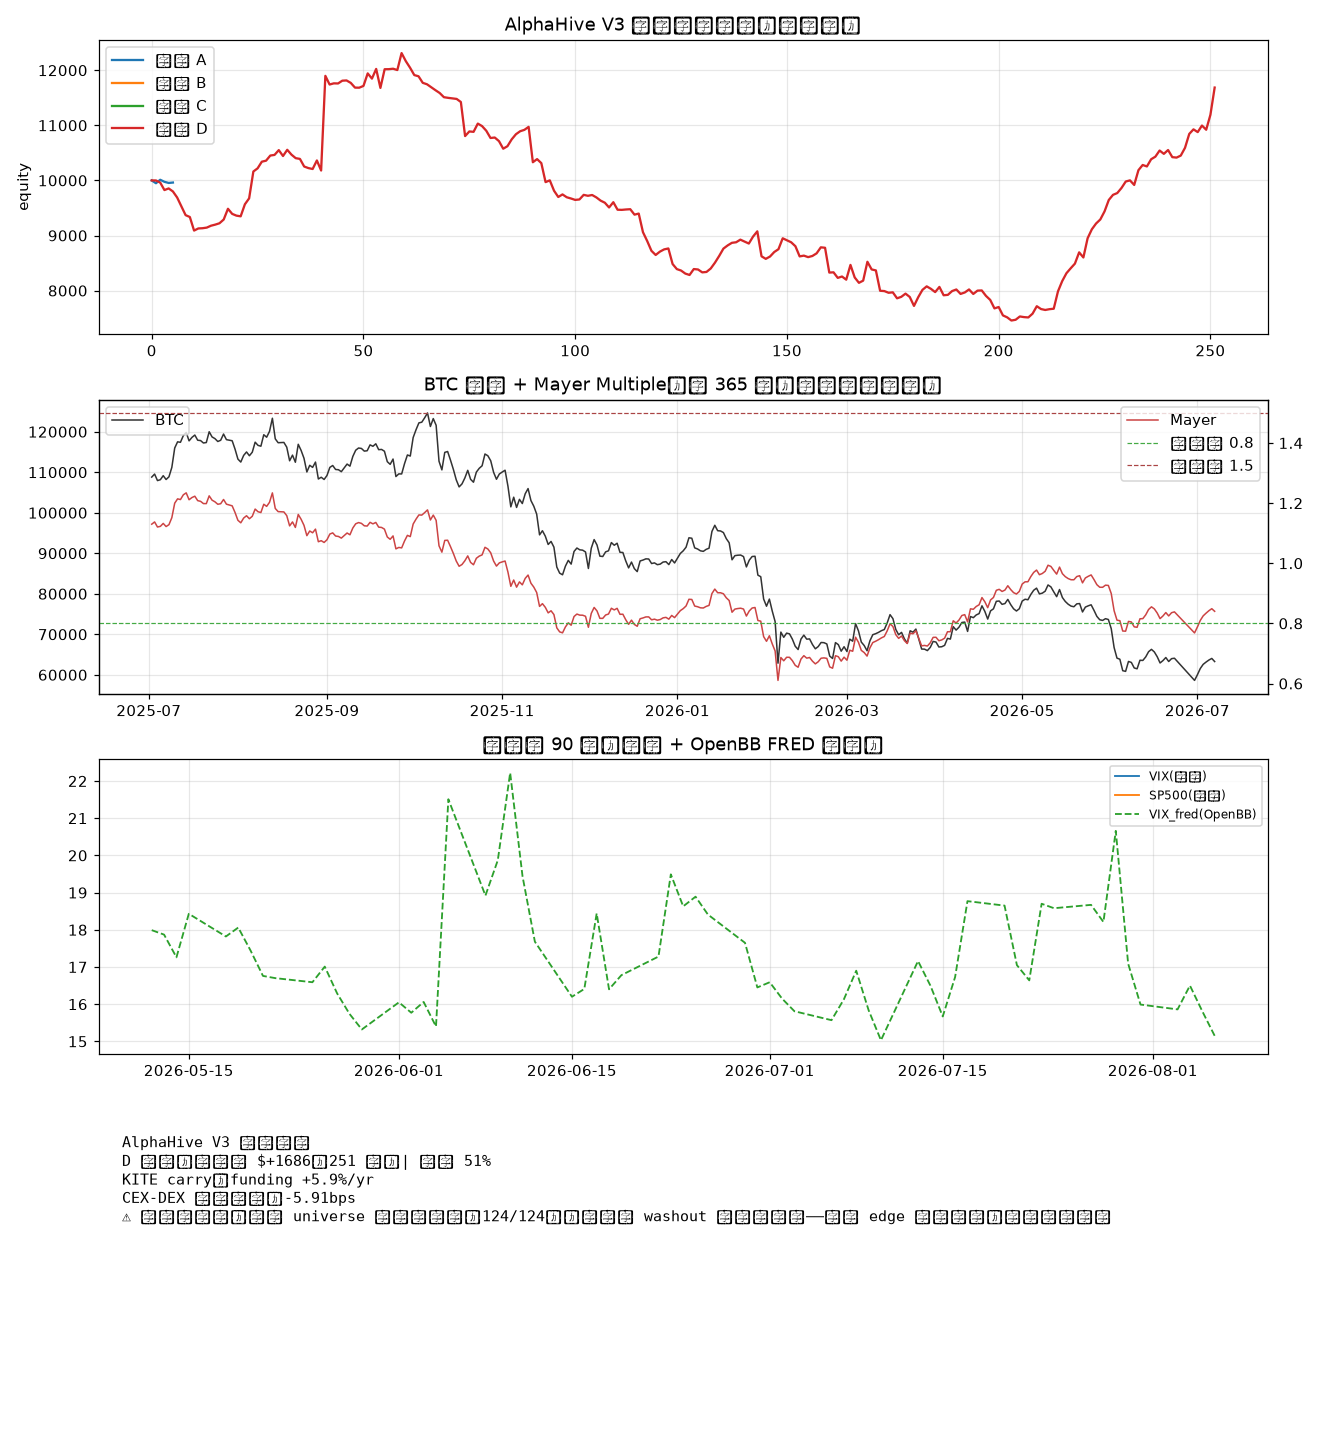
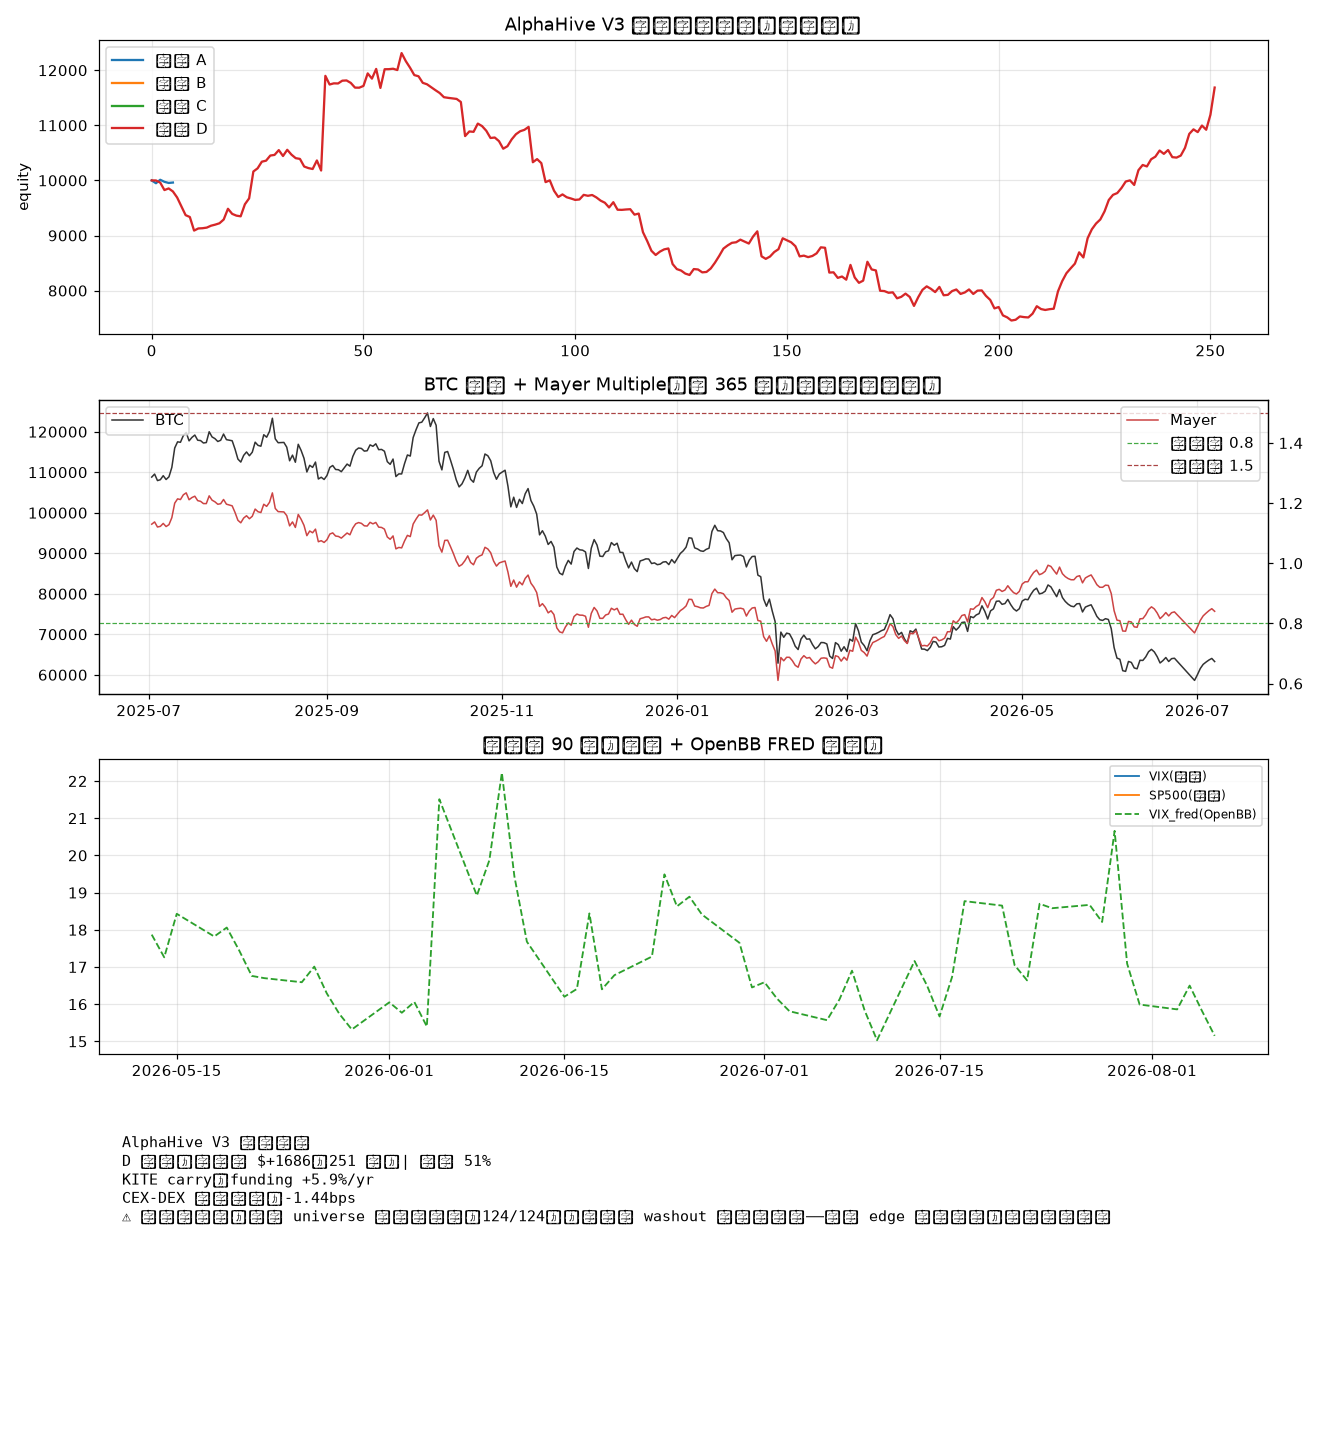
fix 109 merge KeyError timestamp_ms_y（rename 同名列 merge）+ 飞书错误卡片简洁化（原因+位置，裸 traceback 折叠）；509 tests 全绿

diff --git a/scripts/alphahive_feishu_notify.py b/scripts/alphahive_feishu_notify.py
@@ -11,6 +11,7 @@ import csv
 import hashlib
 import json
 import os
+import re
 import sys
 import tempfile
 from datetime import datetime, timezone
@@ -160,9 +161,27 @@ def _paper_payload() -> tuple[str, dict | None]:
 
 
 def _error_payload(kind: str, exit_code: int, stderr: str) -> tuple[str, dict]:
-    summary = [f"任务 **{kind}** 退出码 **{exit_code}**",
-               f"{datetime.now(timezone.utc):%m-%d %H:%M UTC}"]
-    details = [stderr[-1500:]] if stderr.strip() else ["无 stderr"]
+    """简洁清晰版错误卡片：一句话原因 + 位置，不再裸贴 traceback。"""
+    lines = [ln.rstrip() for ln in stderr.splitlines() if ln.strip()]
+    err_pat = re.compile(
+        r"^(KeyError|ValueError|TypeError|IndexError|FileNotFoundError|AttributeError|"
+        r"RuntimeError|OSError|Exception|AssertionError|NameError|ModuleNotFoundError|"
+        r"ImportError|MemoryError|OverflowError|RecursionError|pandas\.errors\.\w+)\b")
+    err_line = next((ln for ln in reversed(lines) if err_pat.match(ln)), "")
+    cause = err_line.split(":", 1)[1].strip() if ":" in err_line else err_line
+    file_lines = [ln.strip() for ln in reversed(lines) if ln.strip().startswith("File ")]
+    loc = next((ln for ln in file_lines if "AlphaHive_V3" in ln or "scripts\\" in ln), file_lines[0] if file_lines else "")
+    summary = [
+        f"任务 **{kind}** 执行失败 · 退出码 **{exit_code}**",
+        f"{datetime.now(timezone.utc):%m-%d %H:%M UTC}",
+    ]
+    details: list[str] = []
+    if cause:
+        details.append(f"**原因**：`{cause[:200]}`")
+    if loc:
+        details.append(f"**位置**：`{loc[:180]}`")
+    if not details:
+        details = [f"```\n{stderr[-500:]}\n```"] if stderr.strip() else ["无 stderr"]
     key = f"error:{kind}:{exit_code}:{hashlib.sha256(stderr.encode()).hexdigest()[:12]}"
     return key, _build_card("error", summary, details, "")
 

diff --git a/scripts/109_forward_replay.py b/scripts/109_forward_replay.py
@@ -333,9 +333,8 @@ def main() -> None:
     # 连续打分标注（2026-08-09）：把候选的 score_vol 附到事件行（无列则 NA）
     if "score_vol" in cand.columns:
         cand_fwd = cand_fwd.merge(
-            cand[["symbol", "timestamp_ms", "score_vol"]],
-            left_on=["symbol", "timestamp"], right_on=["symbol", "timestamp_ms"],
-            how="left").drop(columns=["timestamp_ms_y"])
+            cand[["symbol", "timestamp_ms", "score_vol"]].rename(columns={"timestamp_ms": "timestamp"}),
+            on=["symbol", "timestamp"], how="left")
         cand_fwd["score_vol"] = pd.to_numeric(cand_fwd["score_vol"], errors="coerce")
     else:
         cand_fwd["score_vol"] = np.nan

diff --git a/reports/forward_replay_report.md b/reports/forward_replay_report.md
@@ -1,8 +1,8 @@
 # AlphaHive V3 前向影子收益复核
 
-- 生成: 2026-08-09 08:09 UTC
-- 候选源: contract_monitor_candidates.csv（n=2），trigger=['cvd_bear_divergence']）
-- 基线: 候选时点 1 个，每时点随机 300 个 universe symbol 横截面
+- 生成: 2026-08-10 01:10 UTC
+- 候选源: forward_replay_returns.csv（全量 9 行），trigger=['cvd_bear_divergence', 'wash_cvd']）
+- 基线: 候选时点 6 个，每时点随机 300 个 universe symbol 横截面
 - 样本不足时 verdict=PENDING（CI 宽，待积累）
 
 
@@ -10,18 +10,34 @@
 
 | 组 | n | 均值% | 中位数% | 胜率% |
 |---|---|---|---|---|
-| candidate | 2 | 2.66 | 2.66 | 50 |
-| baseline | 246 | 0.09 | -0.29 | 29 |
+| candidate | 9 | 0.53 | -0.31 | 33 |
+| baseline | 1522 | -0.42 | -0.33 | 35 |
 
-超额（事件−基线）均值 = +2.57%  bootstrap 95% CI [-0.55, +5.70]
+超额（事件−基线）均值 = +0.95%  bootstrap 95% CI [-0.85, +3.16]
 
-> ⚠ 样本不足（事件 n=2，基线 n=246）→ PENDING，继续积累前向影子。
+> ⚠ 样本不足（事件 n=9，基线 n=1522）→ PENDING，继续积累前向影子。
 
-## 24h — NOT_ENOUGH_DATA（候选尚无 24h 前向数据）
+## 24h — PENDING
 
+| 组 | n | 均值% | 中位数% | 胜率% |
+|---|---|---|---|---|
+| candidate | 7 | -3.27 | -4.06 | 29 |
+| baseline | 1261 | -0.12 | 0.00 | 49 |
 
-## 72h — NOT_ENOUGH_DATA（候选尚无 72h 前向数据）
+超额（事件−基线）均值 = -3.16%  bootstrap 95% CI [-7.07, +1.08]
 
+> ⚠ 样本不足（事件 n=7，基线 n=1261）→ PENDING，继续积累前向影子。
+
+## 72h — PENDING
+
+| 组 | n | 均值% | 中位数% | 胜率% |
+|---|---|---|---|---|
+| candidate | 4 | -1.07 | -1.55 | 25 |
+| baseline | 762 | 0.27 | 0.80 | 62 |
+
+超额（事件−基线）均值 = -1.35%  bootstrap 95% CI [-4.80, +2.71]
+
+> ⚠ 样本不足（事件 n=4，基线 n=762）→ PENDING，继续积累前向影子。
 
 ## 168h — NOT_ENOUGH_DATA（候选尚无 168h 前向数据）
 
@@ -38,12 +54,13 @@
 
 ## Decay 监测（事件计数窗口）
 
-- 判决单位: 每 30 事件一块（非重叠，按时间序）；n 总=0
+- 判决单位: 每 30 事件一块（非重叠，按时间序）；n 总=7
 - CUSUM(向下, k=0.5, h=4.5)：z_i = 事件超额/σ，S⁻ 超阈值触发预警
 
 | 块 | 时间范围 (UTC) | n | 24h均值% | 超额% | CI | 判定 |
 |---|---|---|---|---|---|---|
-| 1 | 08-08 21:00~08-08 21:00 | 0 | - | - | - ~ - | 无基线 |
+| 1 | 08-06 10:00~08-09 21:00 | 7 | -3.27% | -3.16% | -6.97% ~ +1.44% | 样本不足 |
 
-**累积**: n=0 < 30 → 样本不足，观察中（不判衰退）
-**CUSUM S⁻** = 0.00（阈值 4.5）
+**累积**: n=7 < 30 → 样本不足，观察中（不判衰退）
+**CUSUM S⁻** = 1.34（阈值 4.5）
+**证据不足（非衰退）**: 最近块 1 CI 跨零，继续积累
